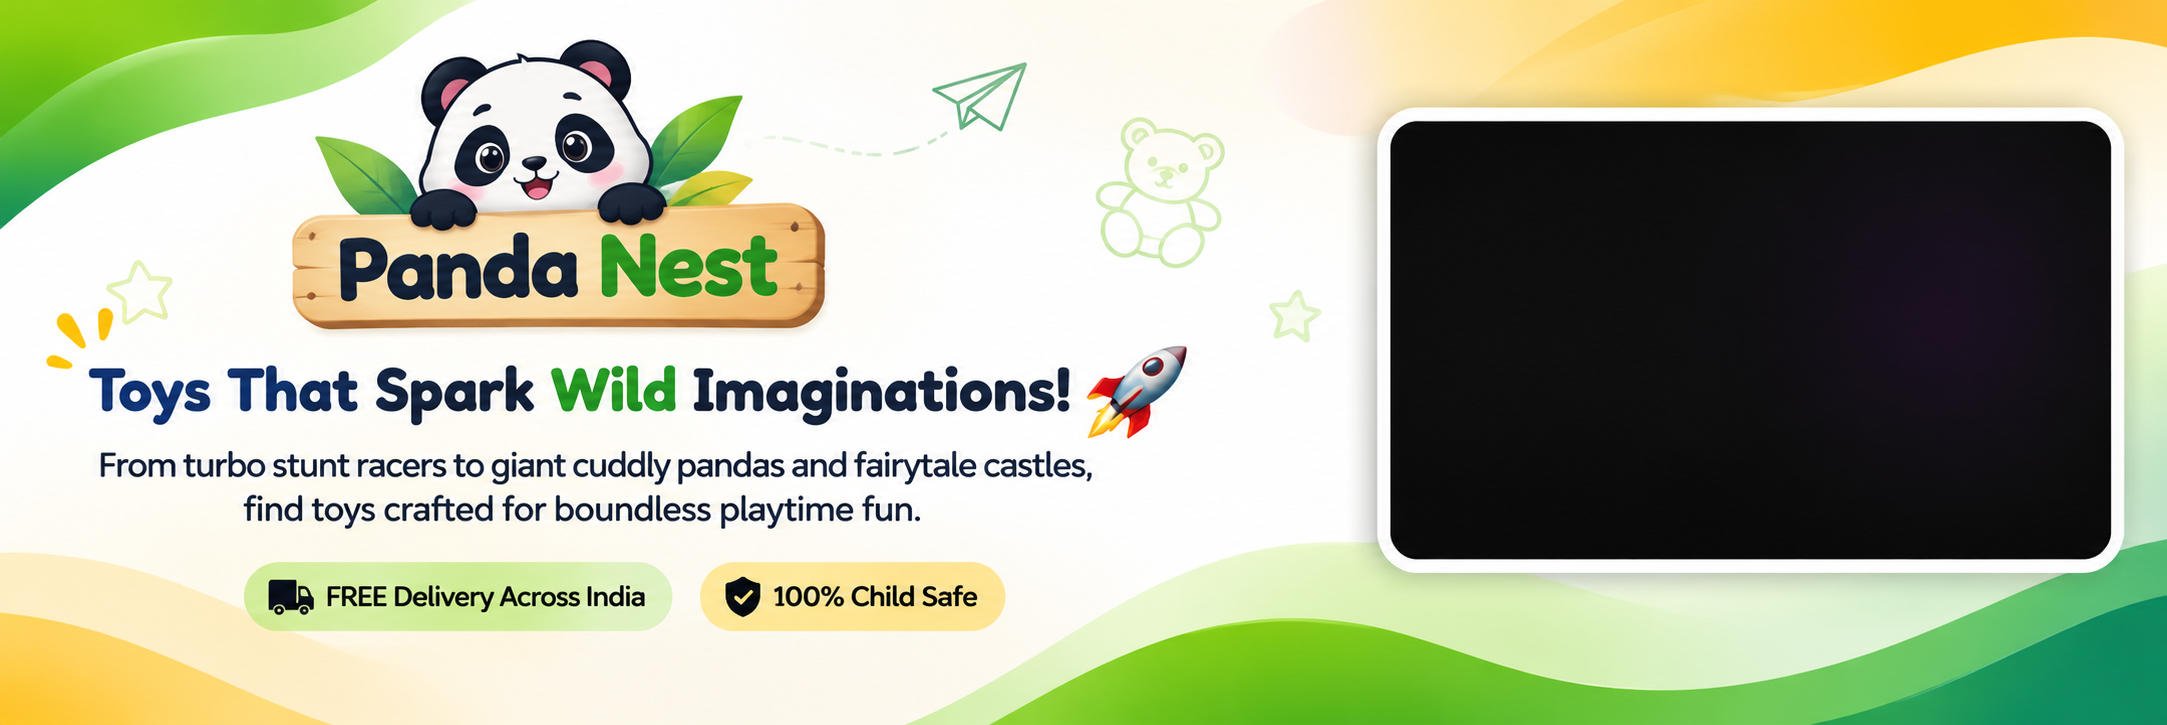
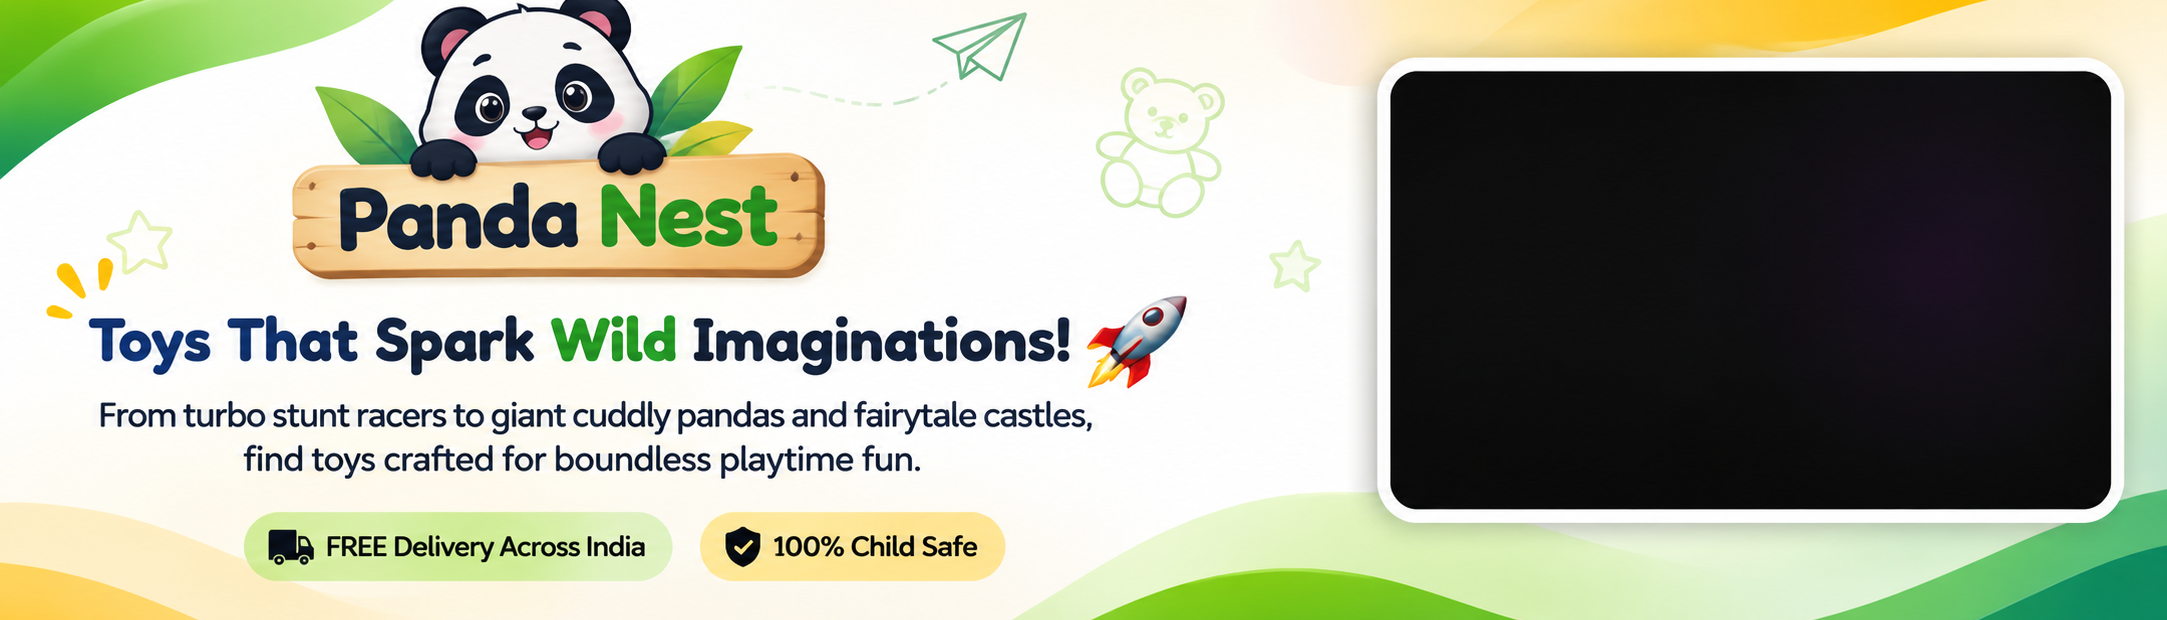
fix(hero): restore 100% full-width edge-to-edge layout, reduce height to 620, and keep only video in TV screen

diff --git a/client/src/pages/Catalog.jsx b/client/src/pages/Catalog.jsx
@@ -277,7 +277,7 @@ export function Catalog({ searchQuery, onOpenTruthOrDare, onOpenWelcome, onNavig
 
   return (
     <div style={{ paddingBottom: '60px' }}>
-      {/* Playful Hero Banner with Embedded Video Showcase */}
+      {/* Playful Hero Banner with Embedded Video Showcase - 100% Full Width Edge-to-Edge */}
       <section
         style={{
           width: '100%',
@@ -285,19 +285,15 @@ export function Catalog({ searchQuery, onOpenTruthOrDare, onOpenWelcome, onNavig
           background: '#ffffff',
           overflow: 'hidden',
           lineHeight: 0,
-          padding: '12px 16px 0'
+          padding: 0
         }}
       >
         <div
           style={{
             position: 'relative',
             width: '100%',
-            maxWidth: '1120px',
-            margin: '0 auto',
-            aspectRatio: '2167 / 725',
-            borderRadius: '16px',
-            overflow: 'hidden',
-            boxShadow: '0 8px 24px -4px rgba(15, 23, 42, 0.08)'
+            aspectRatio: '2167 / 620',
+            overflow: 'hidden'
           }}
           className="hero-banner-container"
         >
@@ -310,307 +306,32 @@ export function Catalog({ searchQuery, onOpenTruthOrDare, onOpenWelcome, onNavig
             style={{
               position: 'absolute',
               left: '64.19%',
-              top: '16.83%',
+              top: '11.61%',
               width: '33.18%',
-              height: '60.14%',
-              borderRadius: '12px',
+              height: '70.32%',
+              borderRadius: '8px',
               overflow: 'hidden',
-              background: '#0a0f1d'
+              background: '#000000'
             }}
             className="hero-video-frame"
           >
-            {showVideo ? (
-              <iframe
-                src={`https://www.youtube.com/embed/${introVideo?.youtube_id || '39x-D2bO_s8'}?autoplay=1&mute=1&loop=1&playlist=${introVideo?.youtube_id || '39x-D2bO_s8'}&controls=0&modestbranding=1&rel=0&iv_load_policy=3&disablekb=1&fs=0&playsinline=1`}
-                title="Panda Nest Showcase Video"
-                style={{
-                  width: '100%',
-                  height: '100%',
-                  border: 'none',
-                  display: 'block',
-                  pointerEvents: 'none',
-                  transform: 'scale(1.05)',
-                  transformOrigin: 'center center'
-                }}
-                allow="accelerometer; autoplay; clipboard-write; encrypted-media; gyroscope; picture-in-picture"
-              />
-            ) : (
-              <>
-                {/* Desktop Form inside TV screen */}
-                <div
-                  className="hero-tv-desktop-form"
-                  style={{
-                    width: '100%',
-                    height: '100%',
-                    background: '#ffffff',
-                    padding: 'clamp(10px, 1.8vw, 20px)',
-                    display: 'flex',
-                    flexDirection: 'column',
-                    justifyContent: 'center',
-                    boxSizing: 'border-box'
-                  }}
-                >
-                  <div style={{ textAlign: 'center', marginBottom: 'clamp(6px, 1vw, 10px)' }}>
-                    <div
-                      style={{
-                        display: 'inline-flex',
-                        alignItems: 'center',
-                        gap: '5px',
-                        background: '#ecfdf5',
-                        color: '#065f46',
-                        padding: '3px 10px',
-                        borderRadius: '9999px',
-                        fontSize: 'clamp(0.7rem, 0.85vw, 0.82rem)',
-                        fontWeight: 800,
-                        marginBottom: '3px'
-                      }}
-                    >
-                      🎁 100 Welcome Points
-                    </div>
-                    <div style={{ fontSize: 'clamp(0.68rem, 0.78vw, 0.78rem)', color: '#64748b', fontWeight: 500 }}>
-                      Register child's birthday for special gifts &amp; discount
-                    </div>
-                  </div>
-
-                  {heroError && (
-                    <div style={{ background: '#fef2f2', color: '#991b1b', padding: '4px 8px', borderRadius: '6px', fontSize: '0.68rem', marginBottom: '6px', textAlign: 'center' }}>
-                      {heroError}
-                    </div>
-                  )}
-
-                  <form onSubmit={handleHeroSubmit} style={{ display: 'flex', flexDirection: 'column', gap: 'clamp(5px, 0.8vw, 8px)' }}>
-                    <div style={{ display: 'grid', gridTemplateColumns: '1fr 1fr', gap: '8px' }}>
-                      <div>
-                        <label style={{ fontSize: 'clamp(0.64rem, 0.72vw, 0.72rem)', fontWeight: 700, color: '#334155', display: 'flex', alignItems: 'center', gap: '3px', marginBottom: '2px' }}>
-                          <Heart size={11} color="#ec4899" /> Child Name *
-                        </label>
-                        <input
-                          type="text"
-                          required
-                          placeholder="e.g. Aarav"
-                          value={heroForm.child_name}
-                          onChange={(e) => setHeroForm({ ...heroForm, child_name: e.target.value })}
-                          style={{
-                            width: '100%',
-                            padding: 'clamp(5px, 0.7vw, 8px) clamp(8px, 0.9vw, 10px)',
-                            fontSize: 'clamp(0.72rem, 0.82vw, 0.84rem)',
-                            borderRadius: '8px',
-                            border: '1px solid #e2e8f0',
-                            outline: 'none',
-                            background: '#f8fafc',
-                            boxSizing: 'border-box'
-                          }}
-                        />
-                      </div>
-                      <div>
-                        <label style={{ fontSize: 'clamp(0.64rem, 0.72vw, 0.72rem)', fontWeight: 700, color: '#334155', display: 'flex', alignItems: 'center', gap: '3px', marginBottom: '2px' }}>
-                          <Phone size={11} color="#059669" /> WhatsApp *
-                        </label>
-                        <input
-                          type="tel"
-                          required
-                          placeholder="10-digit number"
-                          value={heroForm.phone}
-                          onChange={(e) => setHeroForm({ ...heroForm, phone: e.target.value })}
-                          style={{
-                            width: '100%',
-                            padding: 'clamp(5px, 0.7vw, 8px) clamp(8px, 0.9vw, 10px)',
-                            fontSize: 'clamp(0.72rem, 0.82vw, 0.84rem)',
-                            borderRadius: '8px',
-                            border: '1px solid #e2e8f0',
-                            outline: 'none',
-                            background: '#f8fafc',
-                            boxSizing: 'border-box'
-                          }}
-                        />
-                      </div>
-                    </div>
-
-                    <div>
-                      <label style={{ fontSize: 'clamp(0.64rem, 0.72vw, 0.72rem)', fontWeight: 700, color: '#334155', display: 'flex', alignItems: 'center', gap: '3px', marginBottom: '2px' }}>
-                        <Calendar size={11} color="#8b5cf6" /> Child Date of Birth *
-                      </label>
-                      <input
-                        type="date"
-                        required
-                        value={heroForm.dob}
-                        onChange={(e) => setHeroForm({ ...heroForm, dob: e.target.value })}
-                        style={{
-                          width: '100%',
-                          padding: 'clamp(4px, 0.6vw, 7px) clamp(8px, 0.9vw, 10px)',
-                          fontSize: 'clamp(0.72rem, 0.82vw, 0.84rem)',
-                          borderRadius: '8px',
-                          border: '1px solid #e2e8f0',
-                          outline: 'none',
-                          background: '#f8fafc',
-                          boxSizing: 'border-box'
-                        }}
-                      />
-                    </div>
-
-                    <button
-                      type="submit"
-                      disabled={heroLoading}
-                      style={{
-                        width: '100%',
-                        padding: 'clamp(7px, 0.9vw, 10px)',
-                        fontSize: 'clamp(0.75rem, 0.85vw, 0.88rem)',
-                        fontWeight: 800,
-                        background: '#10b981',
-                        color: '#ffffff',
-                        border: 'none',
-                        borderRadius: '8px',
-                        cursor: 'pointer',
-                        display: 'flex',
-                        alignItems: 'center',
-                        justifyContent: 'center',
-                        gap: '6px',
-                        boxShadow: '0 4px 12px rgba(16, 185, 129, 0.28)',
-                        marginTop: '2px'
-                      }}
-                    >
-                      <Award size={15} />
-                      <span>{heroLoading ? 'Unlocking...' : 'Unlock 100 Points & Rewards 🪙'}</span>
-                    </button>
-                  </form>
-                </div>
-
-                {/* Mobile inside TV: shows video preview */}
-                <div className="hero-tv-mobile-video" style={{ width: '100%', height: '100%', display: 'none' }}>
-                  <iframe
-                    src={`https://www.youtube.com/embed/${introVideo?.youtube_id || '39x-D2bO_s8'}?autoplay=1&mute=1&loop=1&playlist=${introVideo?.youtube_id || '39x-D2bO_s8'}&controls=0&modestbranding=1&rel=0&iv_load_policy=3&disablekb=1&fs=0&playsinline=1`}
-                    title="Panda Nest Showcase Video"
-                    style={{
-                      width: '100%',
-                      height: '100%',
-                      border: 'none',
-                      display: 'block',
-                      pointerEvents: 'none',
-                      transform: 'scale(1.05)',
-                      transformOrigin: 'center center'
-                    }}
-                    allow="accelerometer; autoplay; clipboard-write; encrypted-media; gyroscope; picture-in-picture"
-                  />
-                </div>
-              </>
-            )}
+            <iframe
+              src={`https://www.youtube.com/embed/${introVideo?.youtube_id || '39x-D2bO_s8'}?autoplay=1&mute=1&loop=1&playlist=${introVideo?.youtube_id || '39x-D2bO_s8'}&controls=0&modestbranding=1&rel=0&iv_load_policy=3&disablekb=1&fs=0&playsinline=1`}
+              title="Panda Nest Showcase Video"
+              style={{
+                width: '100%',
+                height: '100%',
+                border: 'none',
+                display: 'block',
+                pointerEvents: 'none',
+                transform: 'scale(1.05)',
+                transformOrigin: 'center center'
+              }}
+              allow="accelerometer; autoplay; clipboard-write; encrypted-media; gyroscope; picture-in-picture"
+            />
           </div>
         </div>
       </section>
-
-      {/* Mobile Form Card: displayed only on mobile viewports when form is not yet submitted */}
-      {!isFormCompleted && (
-        <div className="hero-tv-mobile-form container" style={{ maxWidth: '480px', margin: '16px auto 0', padding: '0 12px', display: 'none' }}>
-          <div
-            style={{
-              background: '#ffffff',
-              borderRadius: '16px',
-              padding: '20px 22px',
-              boxShadow: '0 8px 24px rgba(0, 0, 0, 0.06)'
-            }}
-          >
-            <div style={{ textAlign: 'center', marginBottom: '14px' }}>
-              <div
-                style={{
-                  display: 'inline-flex',
-                  alignItems: 'center',
-                  gap: '6px',
-                  background: '#ecfdf5',
-                  color: '#047857',
-                  padding: '4px 12px',
-                  borderRadius: '9999px',
-                  fontSize: '0.78rem',
-                  fontWeight: 800,
-                  marginBottom: '6px'
-                }}
-              >
-                🎁 100 BONUS POINTS
-              </div>
-              <h3 style={{ fontSize: '1.15rem', fontWeight: 800, color: '#0f172a', margin: '0 0 4px' }}>
-                Join Panda Club &amp; Get 100 Pts 🐼
-              </h3>
-              <p style={{ fontSize: '0.82rem', color: '#64748b', margin: 0, lineHeight: 1.45 }}>
-                Register your child's birthday to unlock 100 instant points and special celebration perks!
-              </p>
-            </div>
-
-            {heroError && (
-              <div style={{ background: '#fef2f2', color: '#991b1b', padding: '8px 12px', borderRadius: '8px', fontSize: '0.8rem', marginBottom: '10px', textAlign: 'center' }}>
-                {heroError}
-              </div>
-            )}
-
-            <form onSubmit={handleHeroSubmit} style={{ display: 'flex', flexDirection: 'column', gap: '10px' }}>
-              <div style={{ display: 'grid', gridTemplateColumns: '1fr 1fr', gap: '10px' }}>
-                <div>
-                  <label style={{ fontSize: '0.78rem', fontWeight: 700, color: '#334155', display: 'flex', alignItems: 'center', gap: '4px', marginBottom: '4px' }}>
-                    <Heart size={12} color="#ec4899" /> Child Name *
-                  </label>
-                  <input
-                    type="text"
-                    required
-                    placeholder="e.g. Aarav"
-                    value={heroForm.child_name}
-                    onChange={(e) => setHeroForm({ ...heroForm, child_name: e.target.value })}
-                    style={{ width: '100%', padding: '9px 12px', fontSize: '0.88rem', borderRadius: '8px', border: '1px solid #e2e8f0', outline: 'none', background: '#f8fafc', boxSizing: 'border-box' }}
-                  />
-                </div>
-                <div>
-                  <label style={{ fontSize: '0.78rem', fontWeight: 700, color: '#334155', display: 'flex', alignItems: 'center', gap: '4px', marginBottom: '4px' }}>
-                    <Phone size={12} color="#059669" /> WhatsApp *
-                  </label>
-                  <input
-                    type="tel"
-                    required
-                    placeholder="10-digit number"
-                    value={heroForm.phone}
-                    onChange={(e) => setHeroForm({ ...heroForm, phone: e.target.value })}
-                    style={{ width: '100%', padding: '9px 12px', fontSize: '0.88rem', borderRadius: '8px', border: '1px solid #e2e8f0', outline: 'none', background: '#f8fafc', boxSizing: 'border-box' }}
-                  />
-                </div>
-              </div>
-
-              <div>
-                <label style={{ fontSize: '0.78rem', fontWeight: 700, color: '#334155', display: 'flex', alignItems: 'center', gap: '4px', marginBottom: '4px' }}>
-                  <Calendar size={12} color="#8b5cf6" /> Child Date of Birth *
-                </label>
-                <input
-                  type="date"
-                  required
-                  value={heroForm.dob}
-                  onChange={(e) => setHeroForm({ ...heroForm, dob: e.target.value })}
-                  style={{ width: '100%', padding: '9px 12px', fontSize: '0.88rem', borderRadius: '8px', border: '1px solid #e2e8f0', outline: 'none', background: '#f8fafc', boxSizing: 'border-box' }}
-                />
-              </div>
-
-              <button
-                type="submit"
-                disabled={heroLoading}
-                style={{
-                  width: '100%',
-                  padding: '12px',
-                  fontSize: '0.92rem',
-                  fontWeight: 800,
-                  background: '#10b981',
-                  color: '#ffffff',
-                  border: 'none',
-                  borderRadius: '8px',
-                  cursor: 'pointer',
-                  display: 'flex',
-                  alignItems: 'center',
-                  justifyContent: 'center',
-                  gap: '8px',
-                  boxShadow: '0 4px 12px rgba(16, 185, 129, 0.28)',
-                  marginTop: '4px'
-                }}
-              >
-                <Award size={16} />
-                <span>{heroLoading ? 'Unlocking Points...' : 'Unlock 100 Points & Rewards 🪙'}</span>
-              </button>
-            </form>
-          </div>
-        </div>
-      )}
 
 
       {/* Main Catalog Body */}

diff --git a/client/src/index.css b/client/src/index.css
@@ -739,30 +739,3 @@ html {
 .marquee-track:hover {
   animation-play-state: paused;
 }
-
-/* =========================================================
-   Hero Banner TV Screen / Mobile Form Responsive Classes
-   ========================================================= */
-@media (max-width: 768px) {
-  .hero-tv-desktop-form {
-    display: none !important;
-  }
-  .hero-tv-mobile-video {
-    display: block !important;
-  }
-  .hero-tv-mobile-form {
-    display: block !important;
-  }
-}
-
-@media (min-width: 769px) {
-  .hero-tv-desktop-form {
-    display: flex !important;
-  }
-  .hero-tv-mobile-video {
-    display: none !important;
-  }
-  .hero-tv-mobile-form {
-    display: none !important;
-  }
-}
